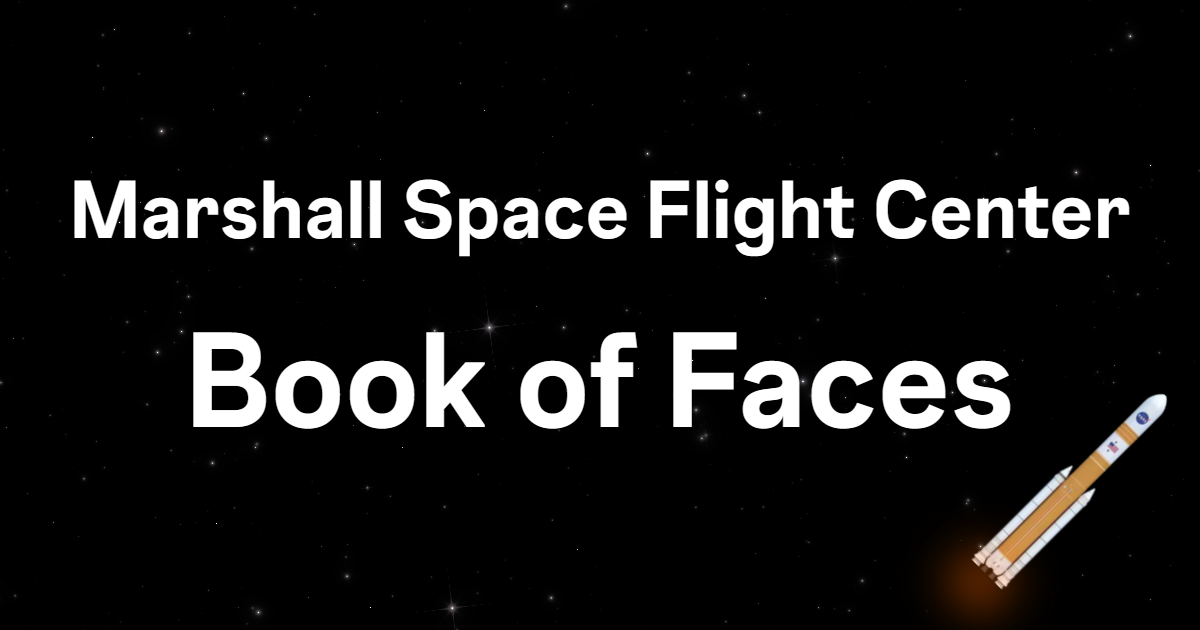
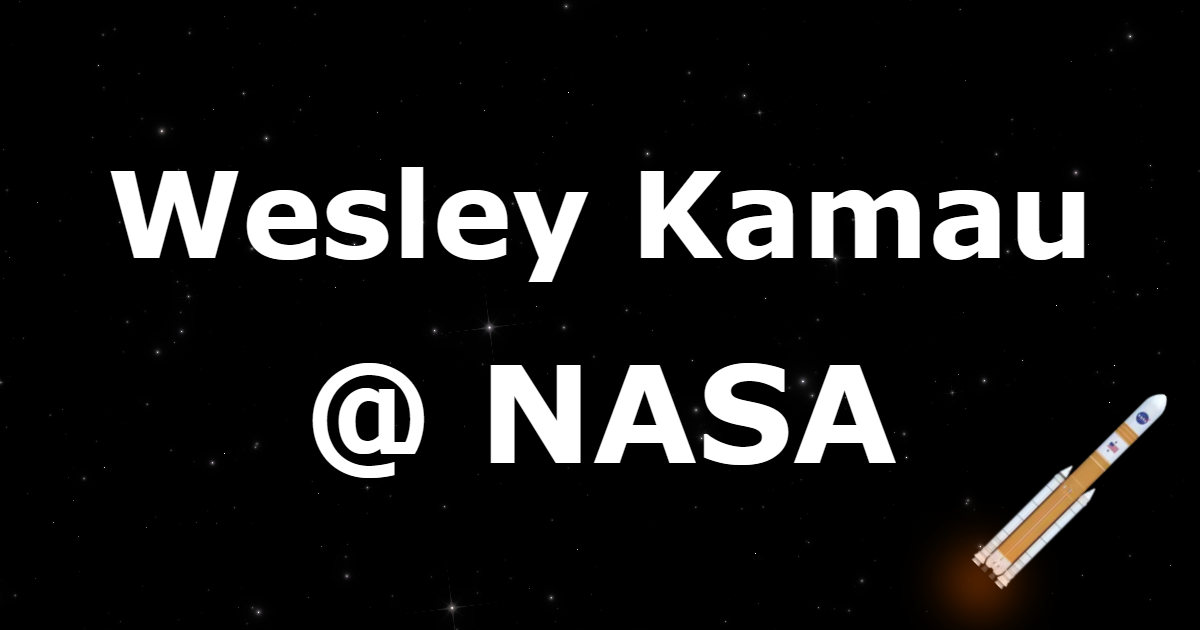
feat: Update Open Graph metadata and site configuration for improved SEO and branding

Changed region(s): [[0.1542, 0.5127, 0.8633, 0.754], [0.0617, 0.2714, 0.9558, 0.4524]]

diff --git a/nasa-recognition/app/layout.tsx b/nasa-recognition/app/layout.tsx
@@ -19,8 +19,10 @@ const getBaseUrl = () => {
   return 'http://localhost:3000';
 };
 
+const siteUrl = getBaseUrl();
+
 export const metadata: Metadata = {
-  metadataBase: new URL(getBaseUrl()),
+  metadataBase: new URL(siteUrl),
   title: SITE_CONFIG.title,
   description: SITE_CONFIG.description,
   robots: {
@@ -30,12 +32,27 @@ export const metadata: Metadata = {
   openGraph: {
     title: SITE_CONFIG.title,
     description: SITE_CONFIG.shortDescription,
+    url: siteUrl,
     siteName: SITE_CONFIG.title,
     locale: 'en_US',
     type: 'website',
+    images: [
+      {
+        url: '/opengraph-image.png',
+        width: 1200,
+        height: 630,
+        alt: SITE_CONFIG.title,
+      },
+    ],
+  },
+  twitter: {
+    card: 'summary_large_image',
+    title: SITE_CONFIG.title,
+    description: SITE_CONFIG.description,
+    images: ['/opengraph-image.png'],
   },
   alternates: {
-    canonical: getBaseUrl(),
+    canonical: siteUrl,
   },
 };
 

diff --git a/nasa-recognition/app/og-generator/page.tsx b/nasa-recognition/app/og-generator/page.tsx
@@ -175,8 +175,8 @@ function GeneratorContent() {
                 className={`text-white tracking-tight drop-shadow-lg flex flex-col items-center gap-2 ${isBold ? 'font-bold' : 'font-normal'}`}
                 style={{ fontFamily }}
               >
-                <span style={{ fontSize: `${fontSize.line1}px` }}>Marshall Space Flight Center</span>
-                <span style={{ fontSize: `${fontSize.line2}px` }}>Book of Faces</span>
+                  <span style={{ fontSize: `${fontSize.line1}px` }}>Wesley Kamau</span>
+                  <span style={{ fontSize: `${fontSize.line2}px` }}>@ NASA</span>
               </h1>
             </div>
           </div>

diff --git a/nasa-recognition/lib/configs/siteConfig.ts b/nasa-recognition/lib/configs/siteConfig.ts
@@ -1,5 +1,5 @@
 export const SITE_CONFIG = {
-  title: "MSFC Book of Faces",
+  title: "Wesley @ NASA",
   description: "Recognizing the amazing people from my NASA internship experience",
-  shortDescription: "An interactive digital yearbook celebrating the Spring 2025 NASA internship",
+  shortDescription: "An interactive digital yearbook celebrating my Spring 2025 NASA internship",
 } as const;

diff --git a/nasa-recognition/lib/configs/ogConfig.ts b/nasa-recognition/lib/configs/ogConfig.ts
@@ -2,8 +2,8 @@ export const OG_IMAGE_CONFIG = {
   rocketPosition: { x: 1052, y: 368 },
   rocketRotation: 45,
   rocketSize: 94,
-  fontFamily: '"Instagram Sans", sans-serif',
-  fontSize: { line1: 82, line2: 135 },
+  fontFamily: '"Verdana", sans-serif',
+  fontSize: { line1: 120, line2: 135 },
   isBold: true,
   showRocket: true,
   useGalaxy: true,
